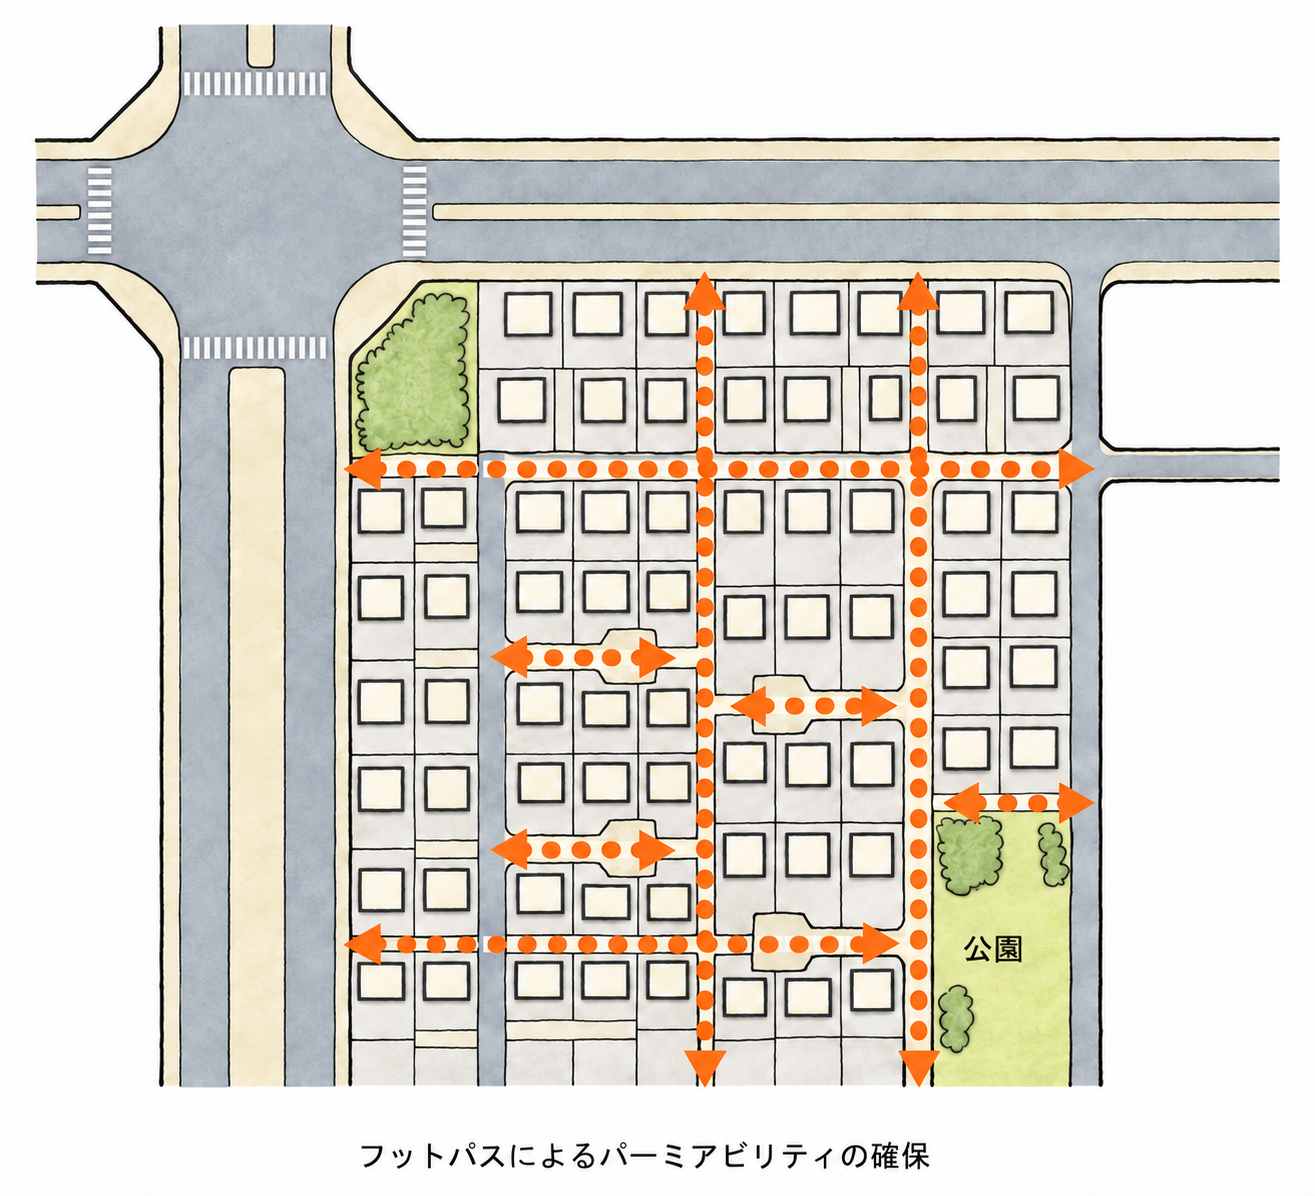
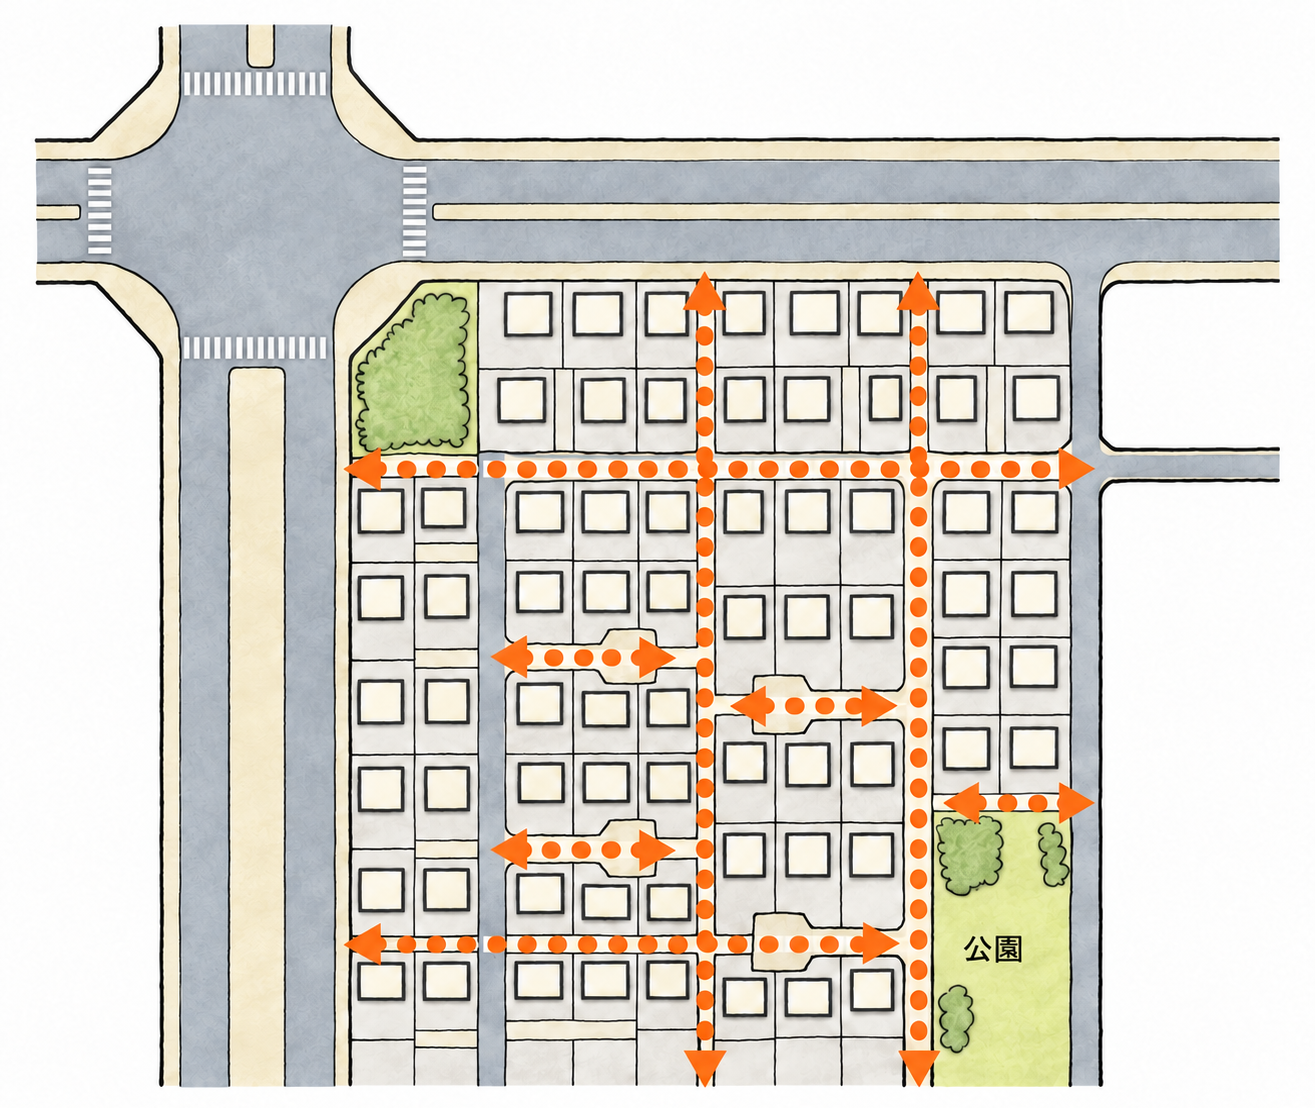
Publish approved A-4 page and align illustration dimensions

diff --git a/a-4-permeability.html b/a-4-permeability.html
@@ -1,1 +1,51 @@
[1 lines of base64/hex data omitted]
+<!doctype html>
+<html lang="ja">
+<head>
+  <meta charset="utf-8">
+  <meta name="viewport" content="width=device-width, initial-scale=1">
+
+  <title>A-4 パーミアビリティ | 防犯まちづくりデザインガイド</title>
+  <meta name="description" content="防犯まちづくりデザインガイド キーワード編 A-4 パーミアビリティ。原著の本文・写真と、原図の構図に基づく清書・彩色図版を掲載。">
+  <link rel="stylesheet" href="/assets/css/keyword.css">
+</head>
+<body>
+  <a class="skip-link" href="#main">本文へ</a>
+  <header class="site-header">
+    <div class="header-inner">
+      <a href="/">防犯まちづくりデザインガイド</a>
+      <p lang="en">A Design Guide for Crime Prevention in Urban Development</p>
+    </div>
+  </header>
+  <main id="main" class="page">
+
+    <nav class="breadcrumb" aria-label="パンくず"><a href="/">トップ</a><span aria-hidden="true"> / </span>A 土地利用・交通計画<span aria-hidden="true"> / </span>A-4</nav>
+    <div class="eyebrow">A 土地利用・交通計画</div>
+    <h1>A-4 パーミアビリティ</h1>
+    <p class="english" lang="en">Permeability</p>
+    <p class="principle">活動の促進</p>
+    <p class="lead">歩行者のパーミアビリティが高い（通り抜けしやすい）まちでは、通行者により人目が確保される。地区レベルの動線計画においては、パーミアビリティの確保が望ましい。特にフットパスなどによる歩行者のネットワークに配慮する。</p>
+    <p class="definition">※ permeability: 透過性、浸透性</p>
+    <aside class="related" aria-label="関連するキーワード"><strong>関連するキーワード：</strong>A-5 クルドサック・袋小路、C-4 フットパスとのつながり</aside>
+    <figure class="main-figure illustration">
+  <a class="zoom-image" href="/images/a-4-footpaths.png" aria-label="画像を拡大：住宅街のフットパスをオレンジの点線と矢印で示した図。道路、住宅区画、公園の配置を原図に従って清書・彩色。"><img src="/images/a-4-footpaths.png" alt="住宅街のフットパスをオレンジの点線と矢印で示した図。道路、住宅区画、公園の配置を原図に従って清書・彩色。" width="1315" height="1108" fetchpriority="high" decoding="async"></a>
+  <figcaption>フットパスによるパーミアビリティの確保</figcaption>
+</figure>
+<div class="figure-pair">
+<figure class="photograph">
+  <a class="zoom-image" href="/images/a-4-photo.jpg" aria-label="画像を拡大：石垣と植栽の間を通り抜ける、シーサイドももちのフットパス。"><img src="/images/a-4-photo.jpg" alt="石垣と植栽の間を通り抜ける、シーサイドももちのフットパス。" width="728" height="546" loading="lazy" decoding="async"></a>
+  <figcaption>フットパス（シーサイドももち／福岡市早良区）</figcaption>
+</figure>
+<figure class="illustration">
+  <a class="zoom-image" href="/images/a-4-detour.png" aria-label="画像を拡大：袋小路の住宅街にある自宅から小学校へ、外周道路を回る赤い破線の経路を示した図。"><img src="/images/a-4-detour.png" alt="袋小路の住宅街にある自宅から小学校へ、外周道路を回る赤い破線の経路を示した図。" width="1211" height="1299" loading="lazy" decoding="async"></a>
+  <figcaption><span class="evaluation-symbol" aria-hidden="true">☹</span>歩行者のパーミアビリティが低い例<br>（小学校まで遠回りを強いられる）</figcaption>
+</figure>
+</div>
+    <footer class="source">
+      <p>出典：『防犯まちづくりデザインガイド ～計画・設計からマネジメントまで』建築研究資料 No.134（2011年）p.25</p>
+      <p><a href="https://www.kenken.go.jp/japanese/contents/publications/data/134/134-05.pdf#page=11" target="_blank" rel="noopener">原典PDFの該当ページを見る<span class="sr-only">（新しいタブ）</span></a></p>
+      <p class="edition-note">Web版の図版は原図の構図に基づき清書・彩色しています。</p>
+      <a class="back-link" href="/">キーワード一覧へ戻る</a>
+    </footer>
+  </main>
+</body>
+</html>

diff --git a/index.html b/index.html
@@ -1,1 +1,1 @@
-<!doctype html><html lang="ja"><head><meta charset="utf-8"><meta name="viewport" content="width=device-width,initial-scale=1"><title>防犯まちづくりデザインガイド｜キーワード編</title><meta name="description" content="防犯まちづくりデザインガイド（建築研究資料 No.134、2011年）キーワード編 全38項目のWeb版"><style>:root{--ink:#192d35;--accent:#00766b;--bg:#f8faf8;--line:#dbe5e1}*{box-sizing:border-box}body{margin:0;background:var(--bg);color:var(--ink);font-family:"Noto Sans JP","Hiragino Kaku Gothic ProN",Meiryo,sans-serif;line-height:1.9}header{background:#153a38;color:white;padding:17px max(22px,calc((100vw - 980px)/2));font-size:14px}.wrap{max-width:880px;padding:42px 24px 85px;margin:auto}h1{font-size:clamp(30px,5vw,43px);line-height:1.4;margin-bottom:4px}h2{margin-top:38px;padding-bottom:8px;border-bottom:1px solid var(--line)}.en{color:#63746f;font-size:15px}a{color:#006d63}.section{background:white;border:1px solid var(--line);border-radius:12px;padding:12px 30px 24px;margin:25px 0}.section ol{padding-left:2.8em;list-style:none}.section li{margin:6px 0}.muted{color:#5f746e}.ready{font-weight:600}footer{border-top:1px solid var(--line);margin-top:48px;padding-top:20px;font-size:13px}@media(max-width:600px){.wrap{padding:25px 15px}.section{padding:10px 16px}.section ol{padding-left:0}}</style></head><body><header>防犯まちづくりデザインガイド</header><main class="wrap"><h1>防犯まちづくりデザインガイド</h1><div class="en">A Design Guide for Crime Prevention in Urban Development</div><p>建築研究資料 No.134（2011年）「Ⅱ キーワード編」のWeb版です。全38キーワードを原著の分類・順序どおりに掲載します。</p><p class="muted">リンクのある項目が現在の試作ページです。その他は制作後に順次リンクを追加します。</p><section class="section"><h2>A 土地利用・交通計画</h2><ol><li><a class="ready" href="/a-1-walkability.html">A-1 ウォーカビリティ</a></li><li><span>A-2 土地・建物用途の複合化</span></li><li><span>A-3 道路の段階構成</span></li><li><a class="ready" href="/a-4-permeability.html">A-4 パーミアビリティ</a></li><li><span>A-5 クルドサック・袋小路</span></li><li><span>A-6 コモンスペース</span></li><li><span>A-7 まちの顔</span></li><li><span>A-8 まんなかの広場</span></li><li><span>A-9 アクティブゾーン</span></li><li><span>A-10 角地の利用</span></li><li><span>A-11 住宅の多様化</span></li><li><span>A-12 接地階の利用</span></li><li><span>A-13 街並みのルール</span></li><li><span>A-14 歴史や文化への配慮</span></li></ol></section><section class="section"><h2>B 公共空間</h2><ol><li><span>B-1 施設計画への住民参加</span></li><li><span>B-2 アイデンティティ</span></li><li><span>B-3 サードプレイス</span></li><li><span>B-4 まちの縁側</span></li><li><span>B-5 歩車共存</span></li><li><span>B-6 領域境界の演出</span></li><li><a class="ready" href="/b-7-visibility-in-parks.html">B-7 見通しの良い公園</a></li><li><span>B-8 街路灯・防犯灯</span></li><li><span>B-9 サイン</span></li><li><span>B-10 耐バンダリズム</span></li></ol></section><section class="section"><h2>C 個々の敷地</h2><ol><li><a class="ready" href="/c-1-windows-facing-public-spaces.html">C-1 公共空間に向く窓</a></li><li><span>C-2 家あかり</span></li><li><span>C-3 見通しの良い住宅外構</span></li><li><span>C-4 フットパスとのつながり</span></li><li><span>C-5 透過性の高い店舗</span></li><li><span>C-6 オープンカフェ／キオスク</span></li><li><span>C-7 死角の解消</span></li><li><span>C-8 足場の除去</span></li></ol></section><section class="section"><h2>D マネジメント</h2><ol><li><span>D-1 エリアマネジメント組織</span></li><li><a class="ready" href="/d-2-maintenance-participation.html">D-2 維持管理活動への参加</a></li><li><span>D-3 顔見知りの関係づくり</span></li><li><span>D-4 表出・花</span></li><li><span>D-5 イメージ</span></li><li><span>D-6 未利用地の創造的活用</span></li></ol></section><footer>原著：<a href="https://www.kenken.go.jp/japanese/contents/publications/data/134/index.html">防犯まちづくりデザインガイド ～計画・設計からマネジメントまで（建築研究所）</a></footer></main></body></html>
+<!doctype html><html lang="ja"><head><meta charset="utf-8"><meta name="viewport" content="width=device-width,initial-scale=1"><title>防犯まちづくりデザインガイド｜キーワード編</title><meta name="description" content="防犯まちづくりデザインガイド（建築研究資料 No.134、2011年）キーワード編 全38項目のWeb版"><style>:root{--ink:#192d35;--accent:#00766b;--bg:#f8faf8;--line:#dbe5e1}*{box-sizing:border-box}body{margin:0;background:var(--bg);color:var(--ink);font-family:"Noto Sans JP","Hiragino Kaku Gothic ProN",Meiryo,sans-serif;line-height:1.9}header{background:#153a38;color:white;padding:17px max(22px,calc((100vw - 980px)/2));font-size:14px}.wrap{max-width:880px;padding:42px 24px 85px;margin:auto}h1{font-size:clamp(30px,5vw,43px);line-height:1.4;margin-bottom:4px}h2{margin-top:38px;padding-bottom:8px;border-bottom:1px solid var(--line)}.en{color:#63746f;font-size:15px}a{color:#006d63}.section{background:white;border:1px solid var(--line);border-radius:12px;padding:12px 30px 24px;margin:25px 0}.section ol{padding-left:2.8em;list-style:none}.section li{margin:6px 0}.muted{color:#5f746e}.ready{font-weight:600}footer{border-top:1px solid var(--line);margin-top:48px;padding-top:20px;font-size:13px}@media(max-width:600px){.wrap{padding:25px 15px}.section{padding:10px 16px}.section ol{padding-left:0}}</style></head><body><header>防犯まちづくりデザインガイド</header><main class="wrap"><h1>防犯まちづくりデザインガイド</h1><div class="en">A Design Guide for Crime Prevention in Urban Development</div><p>建築研究資料 No.134（2011年）「Ⅱ キーワード編」のWeb版です。全38キーワードを原著の分類・順序どおりに掲載します。</p><p class="muted">リンクのある項目は閲覧できます。その他は制作・確認後に順次リンクを追加します。</p><section class="section"><h2>A 土地利用・交通計画</h2><ol><li><a class="ready" href="/a-1-walkability.html">A-1 ウォーカビリティ</a></li><li><span>A-2 土地・建物用途の複合化</span></li><li><span>A-3 道路の段階構成</span></li><li><a class="ready" href="/a-4-permeability.html">A-4 パーミアビリティ</a></li><li><span>A-5 クルドサック・袋小路</span></li><li><span>A-6 コモンスペース</span></li><li><span>A-7 まちの顔</span></li><li><span>A-8 まんなかの広場</span></li><li><span>A-9 アクティブゾーン</span></li><li><span>A-10 角地の利用</span></li><li><span>A-11 住宅の多様化</span></li><li><span>A-12 接地階の利用</span></li><li><span>A-13 街並みのルール</span></li><li><span>A-14 歴史や文化への配慮</span></li></ol></section><section class="section"><h2>B 公共空間</h2><ol><li><span>B-1 施設計画への住民参加</span></li><li><span>B-2 アイデンティティ</span></li><li><span>B-3 サードプレイス</span></li><li><span>B-4 まちの縁側</span></li><li><span>B-5 歩車共存</span></li><li><span>B-6 領域境界の演出</span></li><li><a class="ready" href="/b-7-visibility-in-parks.html">B-7 見通しの良い公園</a></li><li><span>B-8 街路灯・防犯灯</span></li><li><span>B-9 サイン</span></li><li><span>B-10 耐バンダリズム</span></li></ol></section><section class="section"><h2>C 個々の敷地</h2><ol><li><a class="ready" href="/c-1-windows-facing-public-spaces.html">C-1 公共空間に向く窓</a></li><li><span>C-2 家あかり</span></li><li><span>C-3 見通しの良い住宅外構</span></li><li><span>C-4 フットパスとのつながり</span></li><li><span>C-5 透過性の高い店舗</span></li><li><span>C-6 オープンカフェ／キオスク</span></li><li><span>C-7 死角の解消</span></li><li><span>C-8 足場の除去</span></li></ol></section><section class="section"><h2>D マネジメント</h2><ol><li><span>D-1 エリアマネジメント組織</span></li><li><a class="ready" href="/d-2-maintenance-participation.html">D-2 維持管理活動への参加</a></li><li><span>D-3 顔見知りの関係づくり</span></li><li><span>D-4 表出・花</span></li><li><span>D-5 イメージ</span></li><li><span>D-6 未利用地の創造的活用</span></li></ol></section><footer>原著：<a href="https://www.kenken.go.jp/japanese/contents/publications/data/134/index.html">防犯まちづくりデザインガイド ～計画・設計からマネジメントまで（建築研究所）</a></footer></main></body></html>

diff --git a/preview/a-4-permeability.html b/preview/a-4-permeability.html
@@ -3,7 +3,7 @@
 <head>
   <meta charset="utf-8">
   <meta name="viewport" content="width=device-width, initial-scale=1">
-  <meta name="robots" content="noindex, nofollow">
+<meta name="robots" content="noindex, nofollow">
   <title>A-4 パーミアビリティ | 防犯まちづくりデザインガイド</title>
   <meta name="description" content="防犯まちづくりデザインガイド キーワード編 A-4 パーミアビリティ。原著の本文・写真と、原図の構図に基づく清書・彩色図版を掲載。">
   <link rel="stylesheet" href="/assets/css/keyword.css">
@@ -17,7 +17,7 @@
     </div>
   </header>
   <main id="main" class="page">
-    <p class="preview-notice">制作確認用プレビュー</p>
+<p class="preview-notice">制作確認用プレビュー</p>
     <nav class="breadcrumb" aria-label="パンくず"><a href="/">トップ</a><span aria-hidden="true"> / </span>A 土地利用・交通計画<span aria-hidden="true"> / </span>A-4</nav>
     <div class="eyebrow">A 土地利用・交通計画</div>
     <h1>A-4 パーミアビリティ</h1>
@@ -27,7 +27,7 @@
     <p class="definition">※ permeability: 透過性、浸透性</p>
     <aside class="related" aria-label="関連するキーワード"><strong>関連するキーワード：</strong>A-5 クルドサック・袋小路、C-4 フットパスとのつながり</aside>
     <figure class="main-figure illustration">
-  <div class="figure-image" style="aspect-ratio:1315/1108"><a class="zoom-image" href="/images/a-4-footpaths.png" aria-label="画像を拡大：住宅街のフットパスをオレンジの点線と矢印で示した図。道路、住宅区画、公園の配置を原図に従って清書・彩色。"><img src="/images/a-4-footpaths.png" alt="住宅街のフットパスをオレンジの点線と矢印で示した図。道路、住宅区画、公園の配置を原図に従って清書・彩色。" width="1315" height="1196" fetchpriority="high" decoding="async"></a></div>
+  <a class="zoom-image" href="/images/a-4-footpaths.png" aria-label="画像を拡大：住宅街のフットパスをオレンジの点線と矢印で示した図。道路、住宅区画、公園の配置を原図に従って清書・彩色。"><img src="/images/a-4-footpaths.png" alt="住宅街のフットパスをオレンジの点線と矢印で示した図。道路、住宅区画、公園の配置を原図に従って清書・彩色。" width="1315" height="1108" fetchpriority="high" decoding="async"></a>
   <figcaption>フットパスによるパーミアビリティの確保</figcaption>
 </figure>
 <div class="figure-pair">

diff --git a/templates/keyword.html b/templates/keyword.html
@@ -3,7 +3,7 @@
 <head>
   <meta charset="utf-8">
   <meta name="viewport" content="width=device-width, initial-scale=1">
-  $robots_meta
+$robots_meta
   <title>$page_title | 防犯まちづくりデザインガイド</title>
   <meta name="description" content="防犯まちづくりデザインガイド キーワード編 $page_title。原著の本文・写真と、原図の構図に基づく清書・彩色図版を掲載。">
   <link rel="stylesheet" href="/assets/css/keyword.css">
@@ -17,7 +17,7 @@
     </div>
   </header>
   <main id="main" class="page">
-    $preview_notice
+$preview_notice
     <nav class="breadcrumb" aria-label="パンくず"><a href="/">トップ</a><span aria-hidden="true"> / </span>$category<span aria-hidden="true"> / </span>$id</nav>
     <div class="eyebrow">$category</div>
     <h1>$page_title</h1>

diff --git a/assets/css/keyword.css b/assets/css/keyword.css
@@ -23,7 +23,6 @@ h1{font-size:clamp(28px,4.7vw,43px);line-height:1.45;letter-spacing:.015em;margi
 figure{margin:0;min-width:0}
 .main-figure{padding:22px;background:var(--paper);border:1px solid var(--line);border-radius:12px}
 figure img{display:block;width:100%;height:auto}
-.figure-image{overflow:hidden}
 .zoom-image{display:block;cursor:zoom-in}
 figcaption{margin-top:14px;font-size:13px;line-height:1.8;color:#435e54;text-align:center;text-wrap:pretty}
 .figure-pair{display:grid;grid-template-columns:1fr 1fr;gap:32px;margin-top:38px;align-items:start}

diff --git a/scripts/build_keyword.py b/scripts/build_keyword.py
@@ -25,12 +25,6 @@ def figure(item, main=False):
     loading = 'fetchpriority="high"' if main else 'loading="lazy"'
     image = f'<img src="{escape(item["src"])}" alt="{escape(item["alt"])}"{dimensions} {loading} decoding="async">'
     image = f'<a class="zoom-image" href="{escape(item["src"])}" aria-label="画像を拡大：{escape(item["alt"])}">{image}</a>'
-    if item.get("image_crop_height"):
-        crop_height = int(item["image_crop_height"])
-        if not 0 < crop_height <= item["height"]:
-            raise ValueError("Crop height must stay inside the image")
-        # Keep the original asset intact; render its caption as readable HTML.
-        image = f'<div class="figure-image" style="aspect-ratio:{int(item["width"])}/{crop_height}">{image}</div>'
     return (f'<figure class="{" ".join(classes)}">\n'
             f'  {image}\n'
             f'  <figcaption>{caption}</figcaption>\n</figure>')

diff --git a/preview/README.md b/preview/README.md
@@ -25,6 +25,14 @@ python3 scripts/build_keyword.py content/keywords/a-4.json
 3. 公開したプレビューで、画像、PC・スマートフォン表示、リンクを確認する。
 4. 利用者の承認後にだけ正式ページを生成・反映し、トップや関連キーワードのリンクを更新する。
 
+画像のHTML寸法はファイルの実寸と一致させる。画像内キャプションをHTMLへ移す場合は、図の領域を保ったWeb用画像を作り、CSSによる隠れた切り抜きに依存しない。原本は公開リポジトリ外に保全し、原文・写真・図版の掲載要素を省略しない。
+
+承認後のA-4正式ページの再生成：
+
+```sh
+python3 scripts/build_keyword.py content/keywords/a-4.json --output a-4-permeability.html
+```
+
 `--output` は出力先を明示するためのオプション。正式ページへの出力は別途承認が必要。
 
 公開リポジトリにはWeb表示用に変換した画像だけを追加する。AI、InDesign、TIFF、編集用PDFなどの原著編集データや認証情報は追加しない。
